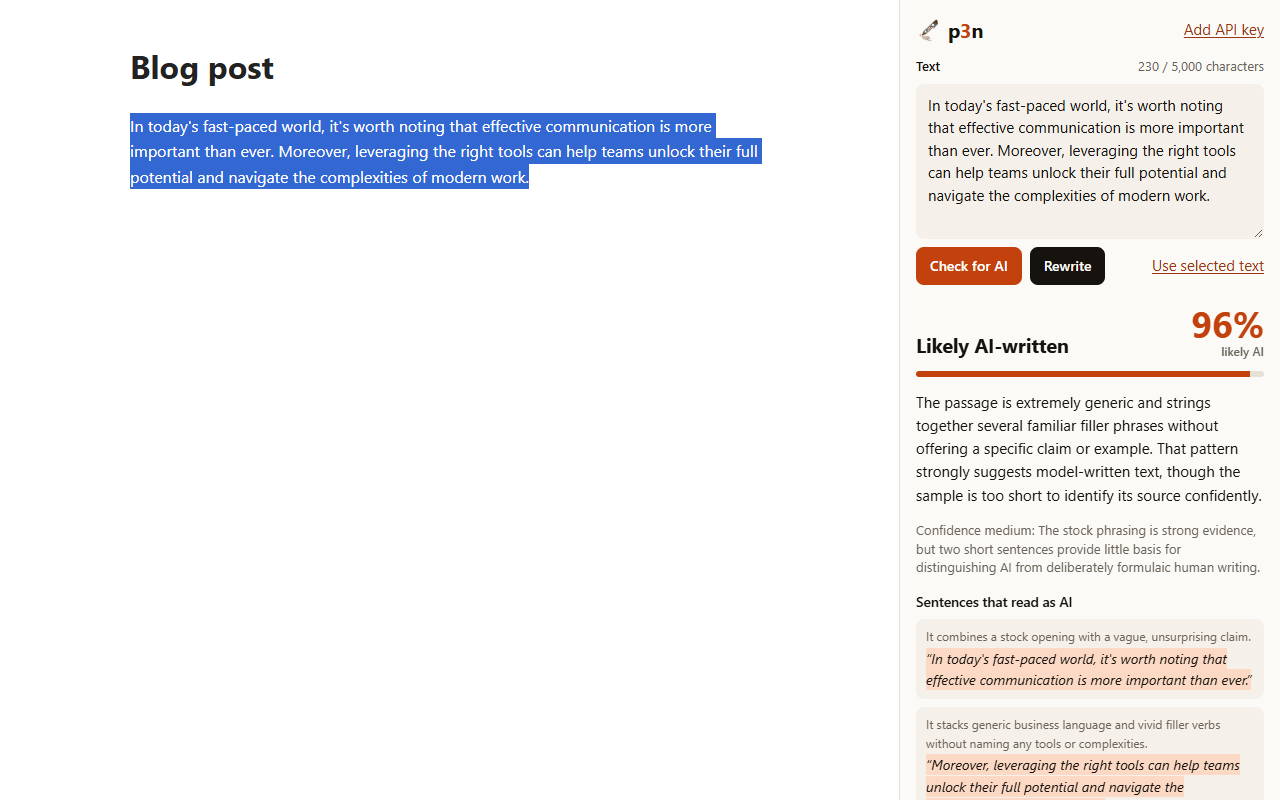
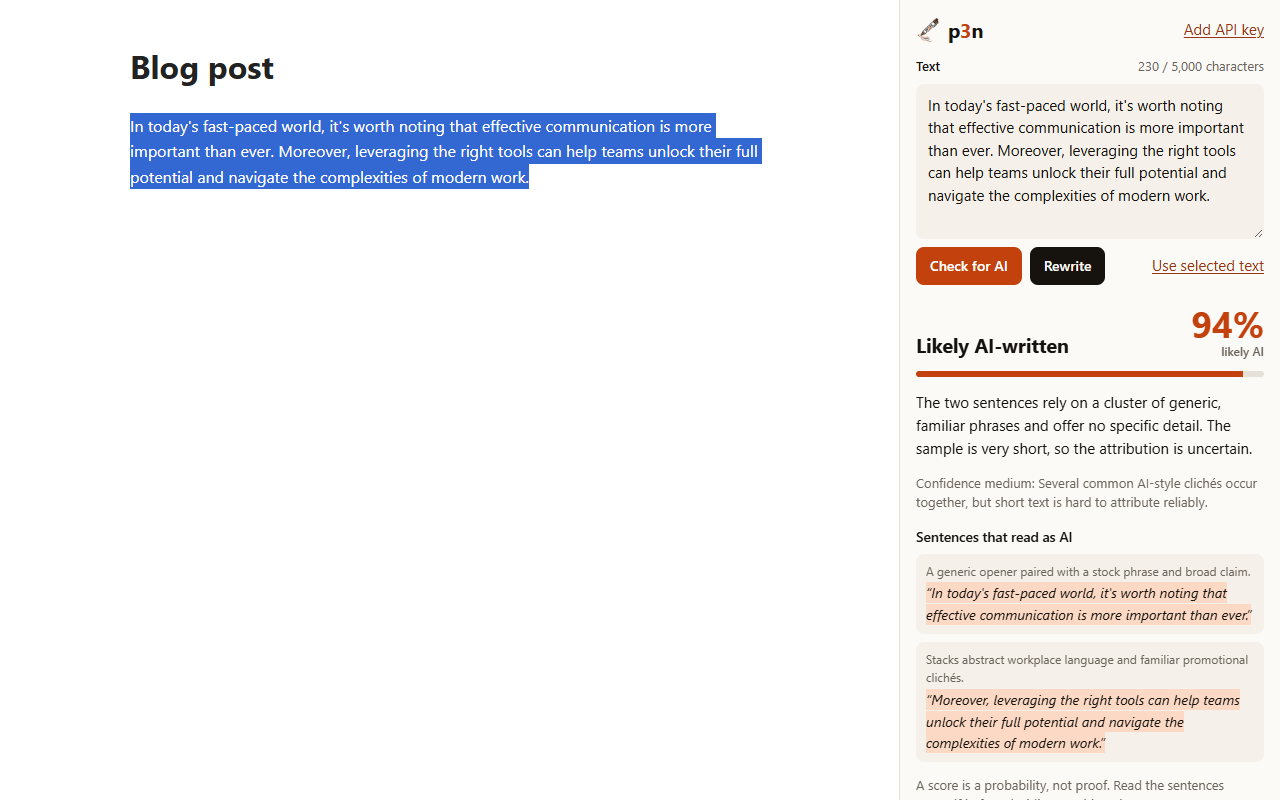
Prepare for a public repo: MIT licence, no private-repo references; rewrite score labelled as the detector model's AI class

Changed region(s): [[0.7188, 0.5, 1.0, 1.0], [0.9375, 0.375, 0.9688, 0.4375]]

diff --git a/ui/panel.js b/ui/panel.js
@@ -269,10 +269,10 @@ function renderHumanize(o, sent) {
   const parts = [
     h('div', { class: 'score', 'data-from': before, 'data-to': pct(o.ai_after), 'data-tone': t },
       h('div', {}, h('p', { class: 'label' }, o.passes ? 'No longer reads as AI' : 'Still reads as AI'),
-        h('p', { class: 'small muted' }, `AI Detection: ${LABELS[o.label_after] ?? 'unknown'}`)),
-      h('p', { class: `pct t-${t}` },
+        h('p', { class: 'small muted' }, `Detector model: ${LABELS[o.label_after] ?? 'unknown'}`)),
+      h('p', { class: `pct t-${t}`, title: 'Detector model, AI class' },
         o.ai_before != null ? h('span', { class: 'from' }, `${before}% → `) : null,
-        scoreNum(pct(o.ai_after)), h('small', {}, 'AI'))),
+        scoreNum(pct(o.ai_after)), h('small', {}, 'AI class'))),
     meter(o.ai_after, t),
     h('div', { class: 'rewrite' }, rewrite.trim()),
     h('div', { class: 'row' }, buttons),

diff --git a/lib/api.js b/lib/api.js
@@ -8,7 +8,7 @@ export const LINKS = {
   signup: `${SITE}/register`,
   docs: `${SITE}/docs`,
 };
-// Mirrors config/p3n.php in p3n-web: free.max_input_chars and api.max_input_chars.
+// The API's input limits: without a key, and with one (https://p3n.si/docs).
 export const MAX_CHARS = { free: 5_000, key: 200_000 };
 
 export class ApiError extends Error {

diff --git a/ui/base.css b/ui/base.css
@@ -1,4 +1,4 @@
-/* p3n colours, the same tokens as p3n.si (p3n-web resources/css/app.css). */
+/* p3n colours, the same tokens as p3n.si. */
 :root {
   --paper: #fbfaf7;
   --ink: #16130f;

diff --git a/README.md b/README.md
@@ -67,7 +67,7 @@ Only the text you select, and only when you choose Check or Rewrite (or click a 
 | `ui/panel.*` | The side panel. It makes the API call itself, because the browser can stop the background script during a minute-long rewrite. Motion is kept to the result: the score counts to its value and changes colour band by band, flagged sentences get a highlighter sweep, a rewrite wipes in. With reduced motion on, the end state shows at once. |
 | `ui/options.*` | The API key page. |
 
-Colours are the p3n.si tokens. The icon is the p3n pen from [zdresearch/p3n-web#4](https://github.com/zdresearch/p3n-web/pull/4) (`dev/logo-512.png` is the source). `python dev/icons.py` builds the browser icons on a light rounded tile, so they read on dark toolbars too; at 16 and 32 px they show only the pen.
+Colours are the p3n.si tokens. The icon is the p3n pen (`dev/logo-512.png` is the source). `python dev/icons.py` builds the browser icons on a light rounded tile, so they read on dark toolbars too; at 16 and 32 px they show only the pen.
 
 ## Develop and test
 
@@ -98,3 +98,7 @@ node dev/build.mjs
 It writes `dist/p3n-chrome-<version>.zip` (Chrome Web Store and Edge Add-ons take the same file) and `dist/p3n-firefox-<version>.zip` (addons.mozilla.org). The zips hold only what the extension needs. They're made with bsdtar (Windows' own `tar.exe`, macOS) or `zip` on Linux, because the stores need forward-slash paths; `Compress-Archive` from Windows PowerShell 5.1 writes backslashes.
 
 Before a Firefox listing: the ID `p3n@p3n.si` is permanent once used on addons.mozilla.org, and Mozilla's reviewers may prefer `authenticationInfo` as an optional data type (asked for when a key is added) rather than required.
+
+## Licence
+
+MIT, see [LICENSE](LICENSE).
